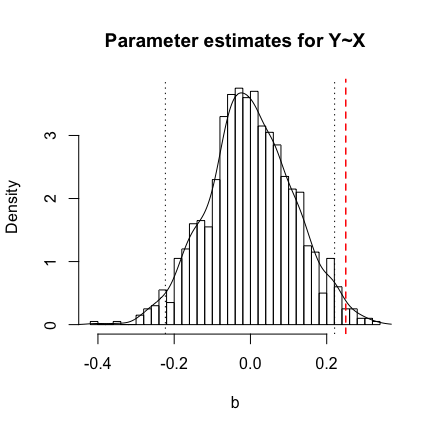
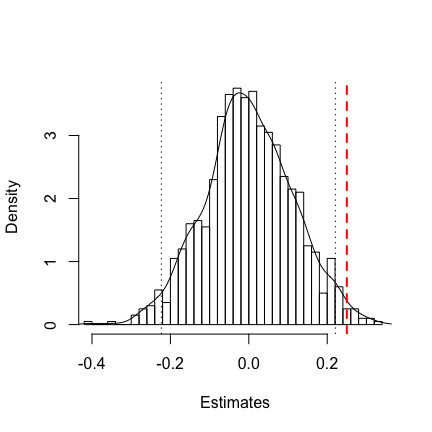
add multiple plot types

diff --git a/readme.md b/readme.md
@@ -120,10 +120,10 @@ result_1a <- regsim(reps=1000, n=100, true.model=true.model,
                  targetval=.25)
 ```
 
-Before examining the results, let's verify that we specified the data generating model correctly. Running `plot()` on the `regsim()` output will produce a path diagram corresponding to this model.
+Before examining the results, let's verify that we specified the data generating model correctly. Running `plot()` on the `regsim()` output with the argument `plot="model"` (the default) will produce a path diagram corresponding to this model.
 
 ``` r
-plot(result_1a)
+plot(result_1a, type="model")
 ```
 
 ![](readme_files/figure-markdown_github/unnamed-chunk-13-1.png)
@@ -131,7 +131,7 @@ plot(result_1a)
 This plot looks correct, but the path coefficients for *A* → *Y* and *B* → *X* are superimposed. We can try an alternate layout for the graph. See `?lavaan::semPaths` for details on the options (under 'layout'). In this case, the `"spring"` layout works better and avoids overplotting.
 
 ``` r
-plot(result_1a, layout="spring")
+plot(result_1a, type="model", layout="spring")
 ```
 
 ![](readme_files/figure-markdown_github/unnamed-chunk-14-1.png)
@@ -212,23 +212,18 @@ The results indicate that the fitted model is producing a biased estimated of th
 
 Because the fitted model is misspecified, the estimated effect of *X* → *Y* is biased. `regsim()` returns the parameter estimates across all of the repetitions in a list component `$b`. Below is a histogram with a superimposed density plot of the parameter estimates. The true value of the relationship is indicated with a dashed vertical red line. The locations of the 2.5th and 97.5th percentiles (representing the empirical 95% confidence interval) are indicated with dotted vertical lines.
 
+This plot can be generated by running `plot()` on the `regsim()` output with `type="perf"`. (The optional `breaks=30` argument increases the number of bars in the plot).
+
 ``` r
-hist(result_1a$b, breaks=30, freq=FALSE,
-     main="Parameter estimates for Y~X", xlab="b")
-
-points(density(result_1a$b), type='l')
-
-abline(v=.25, col="red", lty="dashed", lwd=1.5)
-
-abline(v=result_1a$empirical.CI, lty="dotted")
+plot(result_1a, type="perf", breaks=30)
 ```
 
 ![](readme_files/figure-markdown_github/unnamed-chunk-16-1.png)
 
-We can visualize the distribution of the simulated data in lots of ways. One of the best and easiest is with the `pairs.panels()` function in the `psych` package. The `regsim()` output component `$data` contains the simulated data from the first repetition, which can be passed to `pairs.panels()` or any other function.
+We can visualize the distribution of the simulated data in lots of ways. The easiest is to `plot()` the `regsim()` output using `type="data"`. This plots the data from the first repetition of the simulation with the `pairs.panels()` function from the `psych` package.
 
 ``` r
-pairs.panels(result_1a$data)
+plot(result_1a, type="data")
 ```
 
 ![](readme_files/figure-markdown_github/unnamed-chunk-17-1.png)
@@ -284,14 +279,7 @@ The results indicate good performance. Bias is very low, the coverage rate is ne
 An updated histogram / density plot of the parameter estimates illustrate that they are now centered on the true value of the parameter.
 
 ``` r
-hist(result_1b$b, breaks=30, freq=FALSE,
-     main="Parameter estimates for Y~X", xlab="b")
-
-points(density(result_1b$b), type='l')
-
-abline(v=.25, col="red", lty="dashed", lwd=1.5)
-
-abline(v=result_1b$empirical.CI, lty="dotted")
+plot(result_1b, type="perf", breaks=30)
 ```
 
 ![](readme_files/figure-markdown_github/unnamed-chunk-19-1.png)
@@ -343,14 +331,7 @@ result_1c
 As the results indicate, conditioning on the mediator is a bad idea. It results in an intensely biased estimate of the effect of *X* on *Y*. In fact, the average estimated effect across all the repetitions is now zero.
 
 ``` r
-hist(result_1c$b, breaks=30, freq=FALSE,
-     main="Parameter estimates for Y~X", xlab="b")
-
-points(density(result_1c$b), type='l')
-
-abline(v=.25, col="red", lty="dashed", lwd=1.5)
-
-abline(v=result_1c$empirical.CI, lty="dotted")
+plot(result_1c, type="perf", breaks=30)
 ```
 
 ![](readme_files/figure-markdown_github/unnamed-chunk-21-1.png)
@@ -383,7 +364,7 @@ In this case, you should not trust `regsim()`'s output!
 Next, I examine the `$data` with `psych`'s `pairs.panels()` function.
 
 ``` r
-pairs.panels(result_2$data)
+plot(result_2, type="data")
 ```
 
 ![](readme_files/figure-markdown_github/unnamed-chunk-24-1.png)
@@ -432,17 +413,11 @@ The results are unbiased, but the analytic standard errors are wrong. In fact, i
 
 The regression assumption that has been violated in this case is that the distribution of the residuals does not follow a normal distribution. The strutural part of the model is fine. The incorrect residual distribution manifests as an improperly-shaped shaped sampling distribution for the parameter estimates.
 
-The parameter estimates are stored in the output component `$b`. In the code below, I will make a density plot of the empirical sampling distribution. I will then overlay the analytic sampling distribution (the blue dotted curve). When the regreesion assumptions are met, these two distributions are identical in expectation. But they diverge when assumptions are violated. The true value is denoted by the red vertical line.
+Below is a density plot of the empirical sampling distribution. The analytic sampling distribution is shown as the blue dotted curve. This plot can be obtained by running `plot()` on the `regsim()` output with `type="compareSE"`. When the regreesion assumptions are met, these two distributions are identical in expectation. But they diverge when assumptions are violated. The true value of the parameter is denoted by the red vertical line.
 
 ``` r
-plot(density(result_2$b, adjust=1.2), ylim=c(0,10), 
-     main="Empirical versus analytic sampling distribution")
-
-x <- seq(.1, 1, by=.01)
-y <- dnorm(x, mean=result_2$expected.b, sd=result_2$analytic.SE)
-points(x, y, type="l", lty="dotted", col="blue")
-
-abline(v=.5, col="red", lty="dashed")
+# create the empirical density plot
+plot(result_2, type="compareSE")
 ```
 
 ![](readme_files/figure-markdown_github/unnamed-chunk-26-1.png)
@@ -481,10 +456,11 @@ true.model <- "X_obs ~~ 0*X_obs
                Y ~ .5*X_true"
 ```
 
-Next, we run the simulation, being sure to set the `standardized=` argument to `TRUE`. Also note that the target value I have set is equal to the effect of *X*<sub>*t*</sub>*r**u**e* → *Y*, not the zero effect of *X*<sub>*o**b**s*</sub> → *Y*.
+Next, we run the simulation. Also note that the target value I have set is equal to the effect of *X*<sub>*t*</sub>*r**u**e* → *Y*, not the zero effect of *X*<sub>*o**b**s*</sub> → *Y*.
 
 ``` r
-result_3a <- regsim(reps=1000, n=300, true.model=true.model, fit.model="Y~X_obs", targetparm="X_obs", targetval=.5)
+result_3a <- regsim(reps=1000, n=300, true.model=true.model, 
+                    fit.model="Y~X_obs", targetparm="X_obs", targetval=.5)
 
 result_3a
 ```
@@ -535,7 +511,8 @@ true.model <- "Y_obs ~~ 0*Y_obs
 ```
 
 ``` r
-result_3b <- regsim(reps=1000, n=1000, true.model=true.model, fit.model="Y_obs~X", targetparm="X", targetval=.5)
+result_3b <- regsim(reps=1000, n=1000, true.model=true.model, 
+                    fit.model="Y_obs~X", targetparm="X", targetval=.5)
 
 result_3b
 ```
